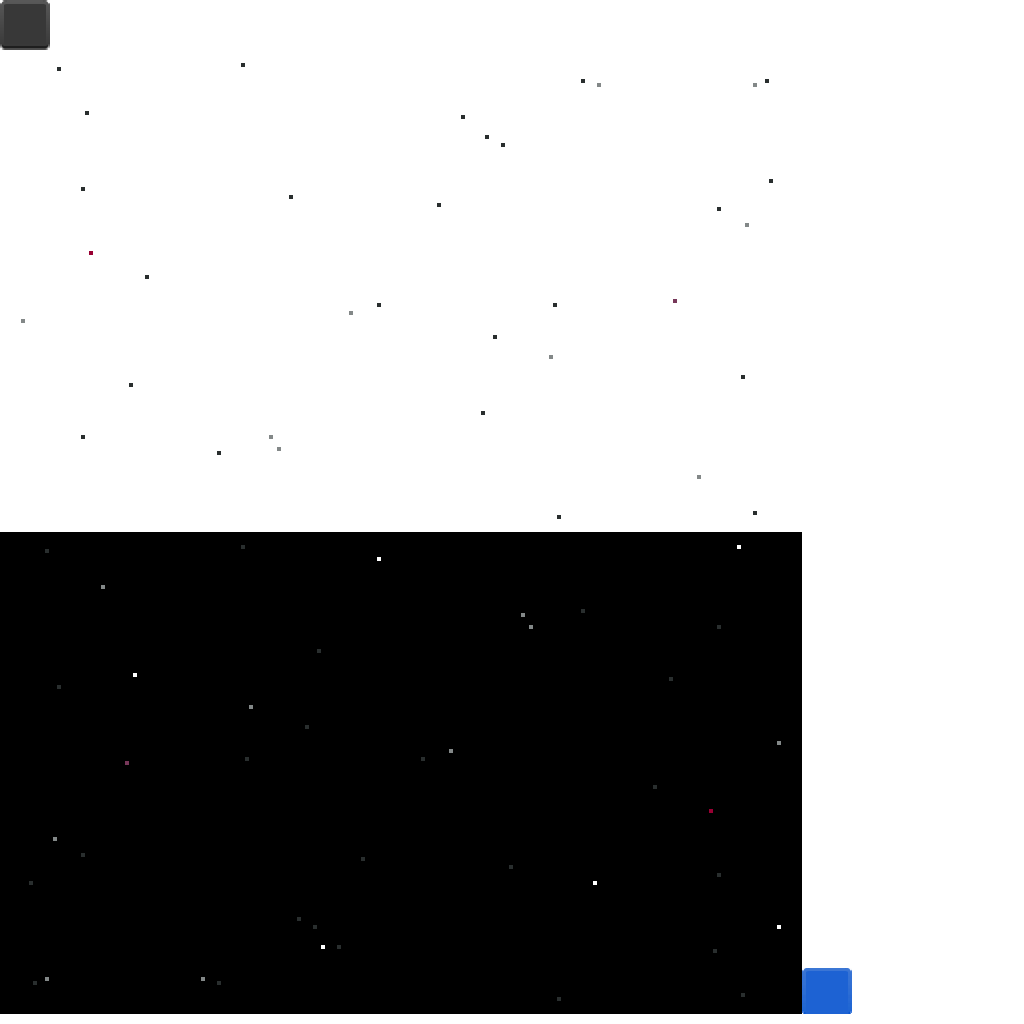
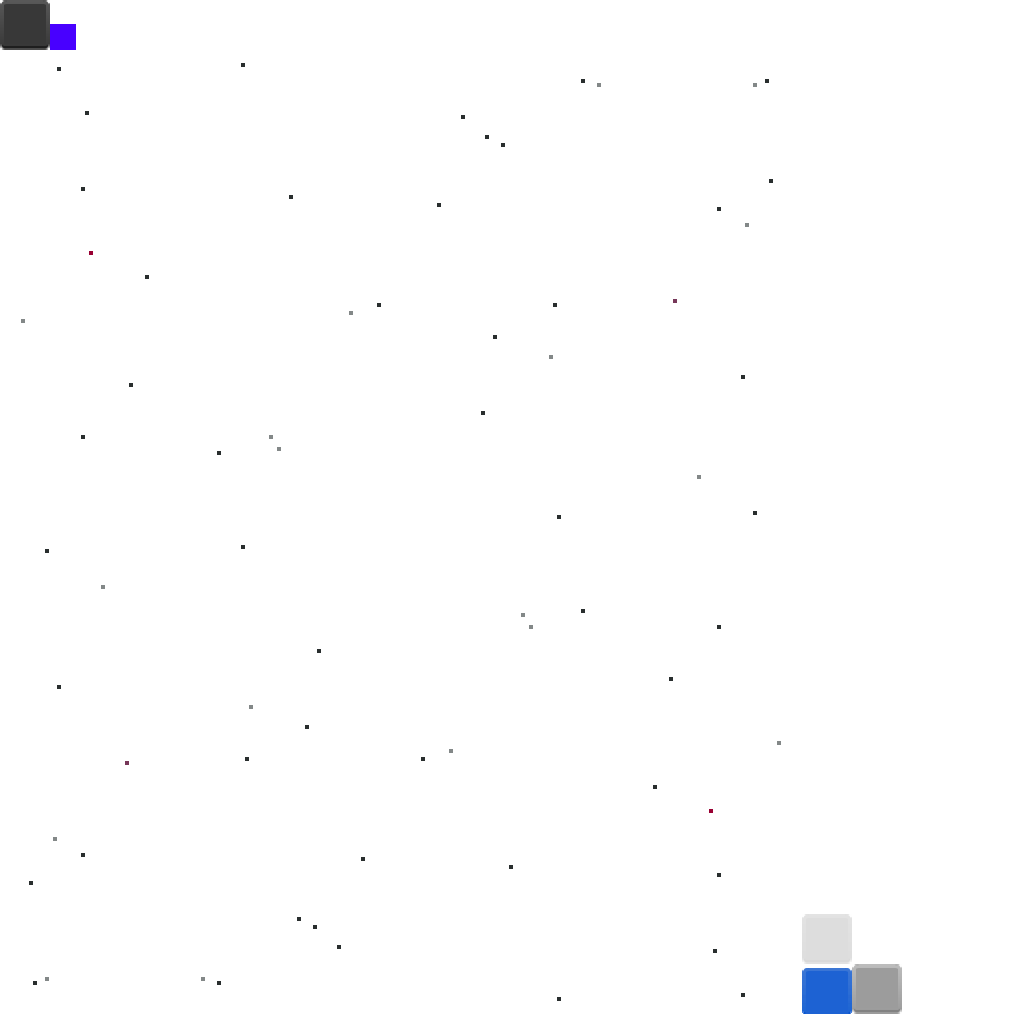
Begin navigation map

diff --git a/core/src/galenscovell/oregontrail/ui/components/GameStage.java b/core/src/galenscovell/oregontrail/ui/components/GameStage.java
@@ -1,15 +1,18 @@
 package galenscovell.oregontrail.ui.components;
 
 import com.badlogic.gdx.graphics.g2d.SpriteBatch;
-import com.badlogic.gdx.scenes.scene2d.Stage;
-import com.badlogic.gdx.scenes.scene2d.ui.Table;
+import com.badlogic.gdx.scenes.scene2d.*;
+import com.badlogic.gdx.scenes.scene2d.ui.*;
+import com.badlogic.gdx.scenes.scene2d.utils.ClickListener;
 import com.badlogic.gdx.utils.viewport.FitViewport;
+import galenscovell.oregontrail.processing.states.StateType;
 import galenscovell.oregontrail.ui.screens.GameScreen;
 import galenscovell.oregontrail.util.*;
 
 public class GameStage extends Stage {
-    private GameScreen rootScreen;
-    private NavigationTable navigationTable;
+    private final GameScreen rootScreen;
+    private Table navigationTable;
+    private NavigationMap navigationMap;
     private ActionTable actionTable;
     private DetailTable detailTable;
 
@@ -20,23 +23,53 @@ public class GameStage extends Stage {
     }
 
     private void construct() {
+        this.navigationMap = new NavigationMap(this);
+
         Table mainTable = new Table();
         mainTable.setFillParent(true);
 
-        this.navigationTable = new NavigationTable(this);
+        this.navigationTable = new Table();
+        TextButton navMapButton = new TextButton("Nav", ResourceManager.button_fullStyle);
+        navMapButton.addListener(new ClickListener() {
+            public void clicked(InputEvent event, float x, float y) {
+                toggleNavMap();
+            }
+        });
+        TextButton teamButton = new TextButton("Team", ResourceManager.button_fullStyle);
+        navMapButton.addListener(new ClickListener() {
+            public void clicked(InputEvent event, float x, float y) {
+                System.out.println("Team button");
+            }
+        });
+        TextButton shipButton = new TextButton("Ship", ResourceManager.button_fullStyle);
+        navMapButton.addListener(new ClickListener() {
+            public void clicked(InputEvent event, float x, float y) {
+                System.out.println("Ship button");
+            }
+        });
+        navigationTable.add(navMapButton).width(84).expand().fill();
+        navigationTable.add(teamButton).width(84).expand().fill();
+        navigationTable.add(shipButton).width(84).expand().fill();
+
         this.actionTable = new ActionTable(this);
         this.detailTable = new DetailTable(this);
 
-        mainTable.add(navigationTable).width(Constants.EXACT_X).height(60).center();
+        mainTable.add(navigationTable).width(Constants.EXACT_X / 3).height(50).center();
         mainTable.row();
-        mainTable.add(actionTable).width(Constants.EXACT_X).height(320).center();
+        mainTable.add(actionTable).width(Constants.EXACT_X).height(340).center();
         mainTable.row();
-        mainTable.add(detailTable).width(Constants.EXACT_X).height(100).center();
+        mainTable.add(detailTable).width(Constants.EXACT_X).height(90).center();
 
         this.addActor(mainTable);
     }
 
-    public void incrementDate() {
-        detailTable.updateDate();
+    public void toggleNavMap() {
+        if (navigationMap.hasParent()) {
+            rootScreen.changeState(StateType.ACTION);
+            navigationMap.remove();
+        } else {
+            rootScreen.changeState(StateType.MENU);
+            this.addActor(navigationMap);
+        }
     }
 }

diff --git a/core/src/galenscovell/oregontrail/ui/screens/GameScreen.java b/core/src/galenscovell/oregontrail/ui/screens/GameScreen.java
@@ -12,7 +12,7 @@ import galenscovell.oregontrail.ui.components.GameStage;
 import galenscovell.oregontrail.util.*;
 
 public class GameScreen extends AbstractScreen {
-    private final int timestep = 30;
+    private final int timestep = 60;
     private double accumulator;
     private State currentState, actionState, menuState;
     private ParallaxBackground parallaxBackground;
@@ -79,8 +79,16 @@ public class GameScreen extends AbstractScreen {
     public void setBackground(String bg1, String bg2) {
         ParallaxLayer[] parallaxLayers = new ParallaxLayer[2];
         parallaxLayers[0] = new ParallaxLayer(ResourceManager.uiAtlas.findRegion(bg1), new Vector2(0.5f, 0.5f), new Vector2(0, 0));
-        parallaxLayers[1] = new ParallaxLayer(ResourceManager.uiAtlas.findRegion(bg2), new Vector2(0.75f, 0.75f), new Vector2(0, 500));
-        this.parallaxBackground = new ParallaxBackground(root.spriteBatch, parallaxLayers, Constants.EXACT_X, Constants.EXACT_Y, new Vector2(25, 0));
+        parallaxLayers[1] = new ParallaxLayer(ResourceManager.uiAtlas.findRegion(bg2), new Vector2(0.75f, 0.75f), new Vector2(0, 0));
+        this.parallaxBackground = new ParallaxBackground(root.spriteBatch, parallaxLayers, Constants.EXACT_X, Constants.EXACT_Y, new Vector2(35, 0));
+    }
+
+    public void setBackground(String bg1, String bg2, String bg3) {
+        ParallaxLayer[] parallaxLayers = new ParallaxLayer[3];
+        parallaxLayers[0] = new ParallaxLayer(ResourceManager.uiAtlas.findRegion(bg1), new Vector2(0.05f, 0.05f), new Vector2(0, 0));
+        parallaxLayers[1] = new ParallaxLayer(ResourceManager.uiAtlas.findRegion(bg2), new Vector2(0.25f, 0.25f), new Vector2(0, 0));
+        parallaxLayers[2] = new ParallaxLayer(ResourceManager.uiAtlas.findRegion(bg3), new Vector2(0.4f, 0.4f), new Vector2(0, 0));
+        this.parallaxBackground = new ParallaxBackground(root.spriteBatch, parallaxLayers, Constants.EXACT_X, Constants.EXACT_Y, new Vector2(50, 0));
     }
 
     public void modifyBackground(Vector2 dxSpeed) {

diff --git a/core/src/galenscovell/oregontrail/ui/components/NavigationMap.java b/core/src/galenscovell/oregontrail/ui/components/NavigationMap.java
@@ -1,0 +1,37 @@
+package galenscovell.oregontrail.ui.components;
+
+import com.badlogic.gdx.scenes.scene2d.ui.Table;
+import galenscovell.oregontrail.things.MapPoint;
+import galenscovell.oregontrail.util.ResourceManager;
+
+public class NavigationMap extends Table {
+    private final GameStage gameStage;
+
+    public NavigationMap(GameStage gameStage) {
+        this.gameStage = gameStage;
+        construct();
+    }
+
+    private void construct() {
+        this.setFillParent(true);
+
+        Table mapTable = new Table();
+        mapTable.setBackground(ResourceManager.buttonUp);
+
+        Table innerTable = new Table();
+        innerTable.setBackground(ResourceManager.mapback);
+        generateMap(innerTable);
+
+        mapTable.add(innerTable).width(580).height(360).expand().fill().left().padLeft(20);
+
+        this.add(mapTable).width(760).height(400).expand().fill().center().padTop(26);
+    }
+
+    private void generateMap(Table container) {
+        MapPoint p1 = new MapPoint();
+        MapPoint p2 = new MapPoint();
+
+        container.add(p1).width(24).height(24).expand().fill();
+        container.add(p2).width(24).height(24).expand().fill();
+    }
+}

diff --git a/core/src/galenscovell/oregontrail/ui/components/DetailTable.java b/core/src/galenscovell/oregontrail/ui/components/DetailTable.java
@@ -1,6 +1,7 @@
 package galenscovell.oregontrail.ui.components;
 
 import com.badlogic.gdx.scenes.scene2d.ui.*;
+import com.badlogic.gdx.utils.Align;
 import galenscovell.oregontrail.util.ResourceManager;
 
 public class DetailTable extends Table {
@@ -21,25 +22,10 @@ public class DetailTable extends Table {
 
         Table dateTable = new Table();
         this.dateLabel = new Label(dateAsString(), ResourceManager.label_mediumStyle);
+        dateLabel.setAlignment(Align.left, Align.left);
+        dateTable.add(dateLabel).expand().fill();
 
-        dateTable.add(dateLabel);
-
-        this.add(dateTable).height(20).expand().fill().top().padTop(5);
-    }
-
-    public void updateDate() {
-        if (day < 12) {
-            day++;
-        } else {
-            day = 1;
-            if (month < 12) {
-                month++;
-            } else {
-                month = 1;
-                year++;
-            }
-        }
-        dateLabel.setText(dateAsString());
+        this.add(dateTable).height(20).expand().fill().top().padTop(5).padLeft(5);
     }
 
     private String dateAsString() {

diff --git a/core/src/galenscovell/oregontrail/things/MapPoint.java b/core/src/galenscovell/oregontrail/things/MapPoint.java
@@ -1,0 +1,35 @@
+package galenscovell.oregontrail.things;
+
+import com.badlogic.gdx.graphics.g2d.*;
+import com.badlogic.gdx.scenes.scene2d.*;
+import com.badlogic.gdx.scenes.scene2d.utils.ActorGestureListener;
+import galenscovell.oregontrail.util.ResourceManager;
+
+public class MapPoint extends Actor {
+    private Sprite currentSprite;
+    private Sprite[] sprites;
+    private boolean selected;
+
+    public MapPoint() {
+        this.currentSprite = new Sprite(ResourceManager.uiAtlas.createSprite("map_point"));
+        this.addListener(new ActorGestureListener() {
+            public void touchDown(InputEvent event, float x, float y, int pointer, int button) {
+                selected = !selected;
+            }
+        });
+    }
+
+    @Override
+    public void act(float delta) {
+
+    }
+
+    @Override
+    public void draw(Batch batch, float parentAlpha) {
+        if (selected) {
+            batch.setColor(0.5f, 0.5f, 1.0f, 1);
+        }
+        batch.draw(currentSprite, getX(), getY(), getWidth(), getHeight());
+        batch.setColor(1, 1, 1, 1);
+    }
+}

diff --git a/core/src/galenscovell/oregontrail/util/ResourceManager.java b/core/src/galenscovell/oregontrail/util/ResourceManager.java
@@ -17,7 +17,7 @@ public class ResourceManager {
     public static AssetManager assetManager;
     public static TextureAtlas uiAtlas;
     public static LabelStyle label_tinyStyle, label_mediumStyle, label_detailStyle, label_menuStyle, label_titleStyle;
-    public static NinePatchDrawable buttonUp, buttonDown;
+    public static NinePatchDrawable buttonUp, buttonDown, mapback;
     public static TextButtonStyle button_fullStyle;
     public static TextureRegionDrawable background;
     public static Preferences prefs;
@@ -79,6 +79,7 @@ public class ResourceManager {
     private static void loadNinepatches() {
         buttonUp = new NinePatchDrawable(uiAtlas.createPatch("buttonup"));
         buttonDown = new NinePatchDrawable(uiAtlas.createPatch("buttondown"));
+        mapback = new NinePatchDrawable(uiAtlas.createPatch("map_back"));
     }
 
     private static void loadLabelStyles() {

diff --git a/core/src/galenscovell/oregontrail/ui/components/ActionTable.java b/core/src/galenscovell/oregontrail/ui/components/ActionTable.java
@@ -6,7 +6,7 @@ import galenscovell.oregontrail.things.Vehicle;
 import galenscovell.oregontrail.util.*;
 
 public class ActionTable extends Table {
-    private GameStage gameStage;
+    private final GameStage gameStage;
 
     public ActionTable(GameStage gameStage) {
         this.gameStage = gameStage;
@@ -22,10 +22,10 @@ public class ActionTable extends Table {
 
         Table middle = new Table();
         middle.setSize(Constants.EXACT_X, 200);
-        middle.setPosition(0, 40);
+        middle.setPosition(0, 80);
         Vehicle vehicle = new Vehicle();
         vehicle.setSize(180, 90);
-        middle.add(vehicle).expand().fill().left().padLeft(30);
+        middle.add(vehicle).expand().fill().left().padLeft(80);
 
         Table front = new Table();
         front.setSize(Constants.EXACT_X, 320);

diff --git a/core/src/galenscovell/oregontrail/ui/screens/LoadScreen.java b/core/src/galenscovell/oregontrail/ui/screens/LoadScreen.java
@@ -24,13 +24,9 @@ public class LoadScreen extends AbstractScreen {
         Table loadingMain = new Table();
         loadingMain.setFillParent(true);
 
-        Table labelTable = new Table();
-        loadingMain.add(labelTable).expand().fill();
-        loadingMain.row();
-
         Table barTable = new Table();
         this.loadingBar = createBar();
-        barTable.add(loadingBar).width(400).height(180).expand().fill().top();
+        barTable.add(loadingBar).width(400).expand().fill();
         loadingMain.add(barTable).expand().fill();
 
         stage.addActor(loadingMain);

diff --git a/core/src/galenscovell/oregontrail/processing/states/ActionState.java b/core/src/galenscovell/oregontrail/processing/states/ActionState.java
@@ -22,7 +22,7 @@ public class ActionState implements State {
 
     @Override
     public void update(float delta, GameStage stage) {
-        stage.incrementDate();
+
     }
 
     @Override

diff --git a/core/src/galenscovell/oregontrail/generation/UniverseGenerator.java b/core/src/galenscovell/oregontrail/generation/UniverseGenerator.java
@@ -1,0 +1,5 @@
+package galenscovell.oregontrail.generation;
+
+public class UniverseGenerator {
+
+}
